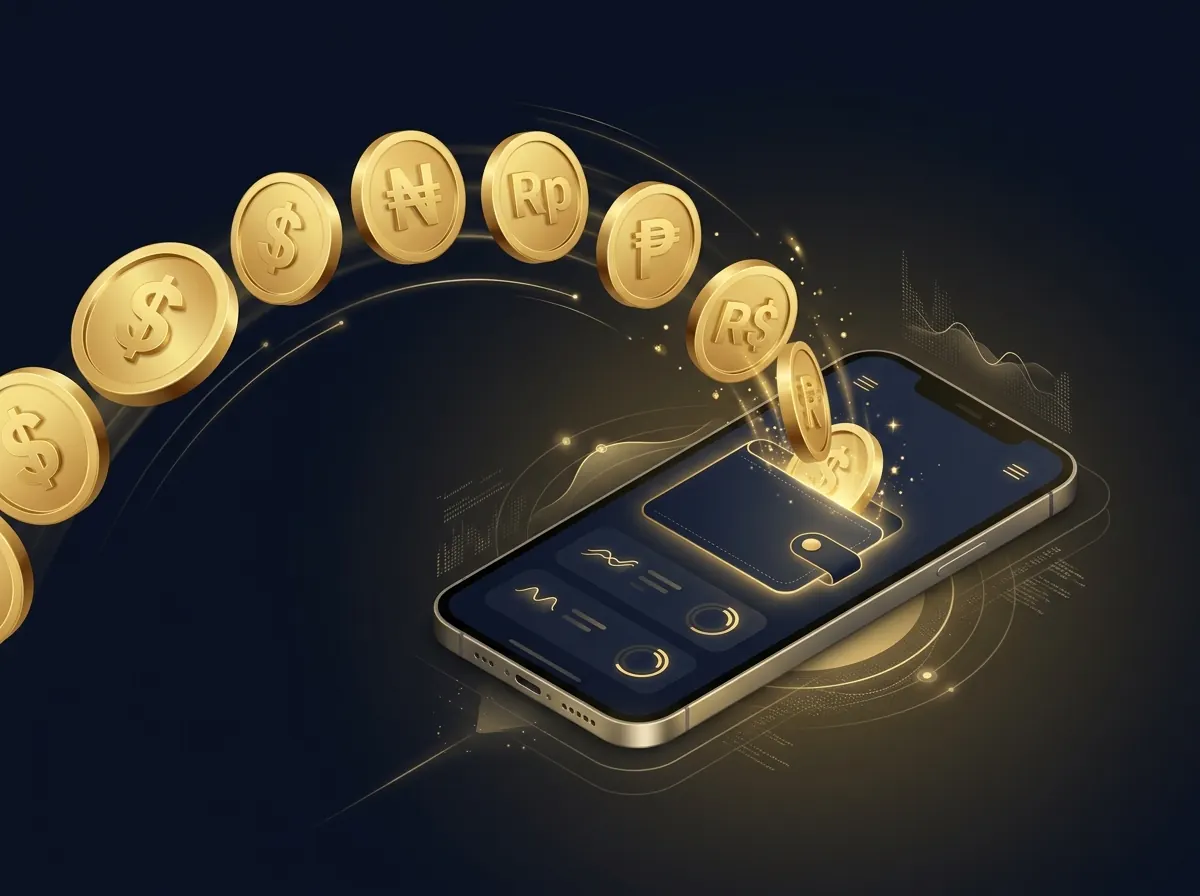
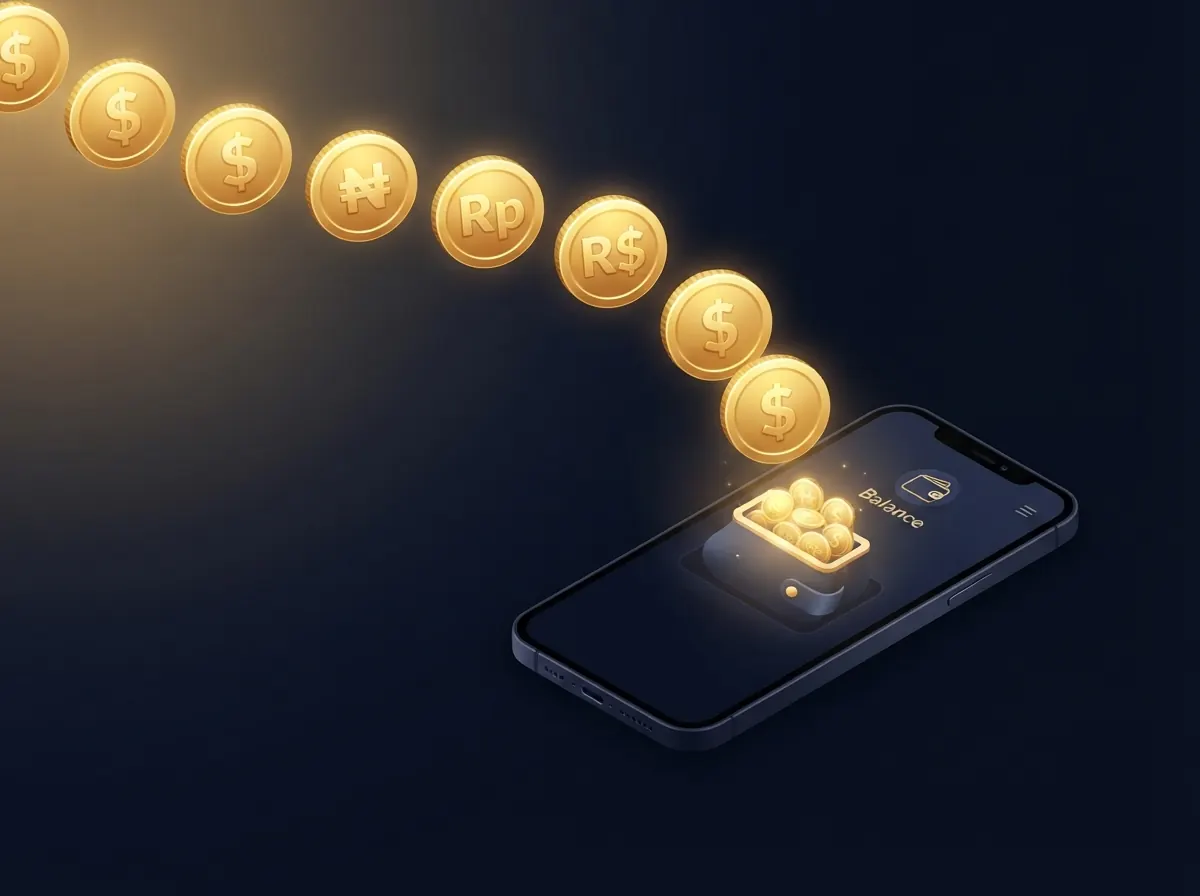
web: corrected how it works illustration with only dollar, naira, rupiah and real coins

diff --git a/web/index.html b/web/index.html
@@ -79,7 +79,7 @@
         <h2 id="how-title">How it works</h2>
       </div>
       <div class="how">
-        <img class="how-art" src="/how-1200.webp" srcset="/how-720.webp 720w, /how-1200.webp 1200w" sizes="(max-width: 860px) 100vw, 560px" width="1200" height="896" loading="lazy" decoding="async" alt="Dollar coins turning into naira, rupiah, peso and real coins as they flow into a phone wallet">
+        <img class="how-art" src="/how-1200.webp" srcset="/how-720.webp 720w, /how-1200.webp 1200w" sizes="(max-width: 860px) 100vw, 560px" width="1200" height="896" loading="lazy" decoding="async" alt="Dollar coins, with naira, rupiah and real coins among them, flowing into a phone wallet">
         <ol class="how-steps">
           <li><span class="how-icon"><span data-icon="wallet" data-icon-class="icon-lg"></span></span><div><h3>The client pays</h3><p>The client pays each milestone in USD₮ from their own wallet, such as MiniPay.</p></div></li>
           <li><span class="how-icon"><span data-icon="pen" data-icon-class="icon-lg"></span></span><div><h3>The client approves</h3><p>When the work is done, the client approves with a free signature from the same wallet.</p></div></li>
